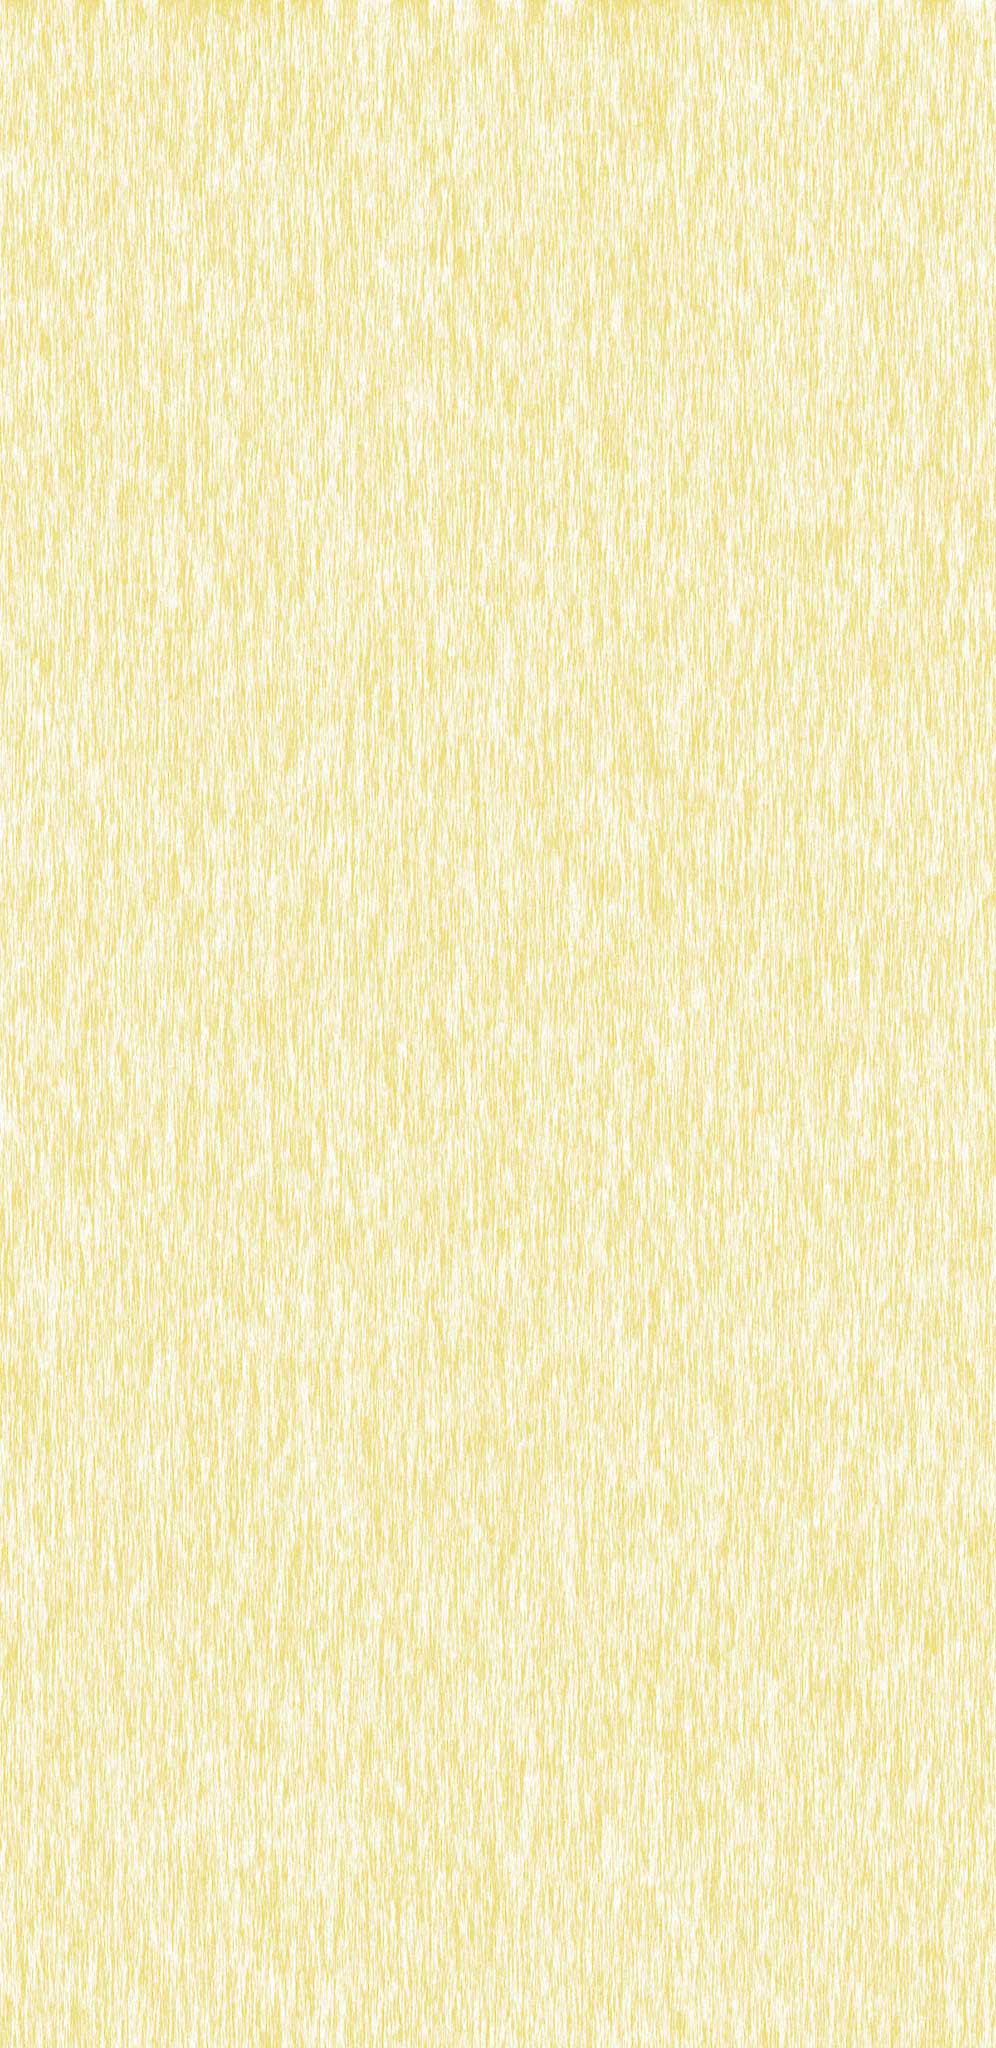
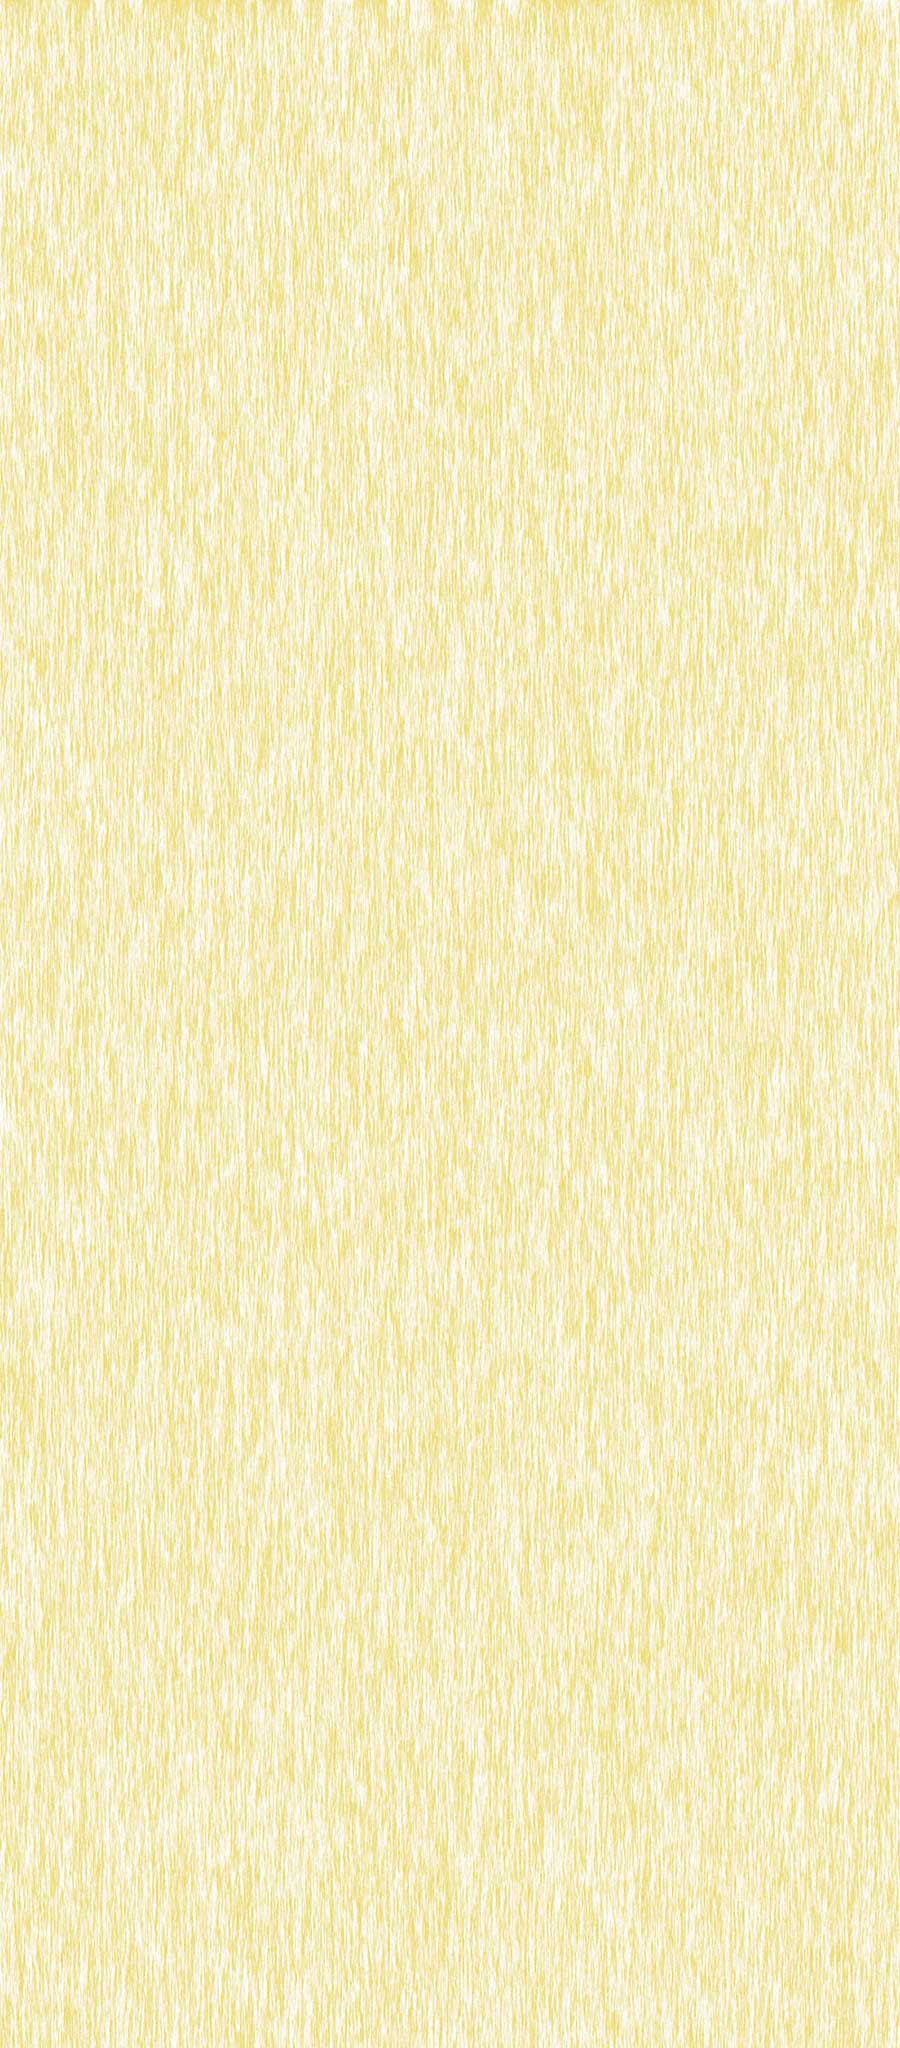
changes

diff --git a/index.html b/index.html
@@ -39,7 +39,7 @@
 		<li><a href="contact.html">Contact Us</a></li>
 	</ul>	
 	</nav>
-	<section class="grid_6 prefix_1 alpha">
+	<section class="grid_6 alpha">
 	<h3>Welcome</h3>
 	<p>The Bay Ridge Volunteer Fire Company, Inc. is located in the Town of Queensbury, Warren County NY.  The purpose of the Bay Ridge Volunteer Fire Company is to prevent the loss of lives and property.  This may be achieved through responses to: suppress and control fires, perform extrication at motor vehicle accidents, water related emergencies, medical emergencies, and any other emergency or hazardous situation in which the fire company, its manpower or equipment may be of assistance.  Additionally, the department will promote fire safety awareness in the community.  This may be done by providing fire prevention instruction to children and adults.</p>
 	</section>

diff --git a/css/style.css b/css/style.css
@@ -8,7 +8,12 @@ Copyright 2013, Josh Cope
    ========================================================================== */
 body{
 background-image: url("../images/background.jpg");
-background-color: grey;
+background-size: 900px 2000px;
+background-repeat: none;
+}
+
+html{
+background-color: white;
 }
 
 
